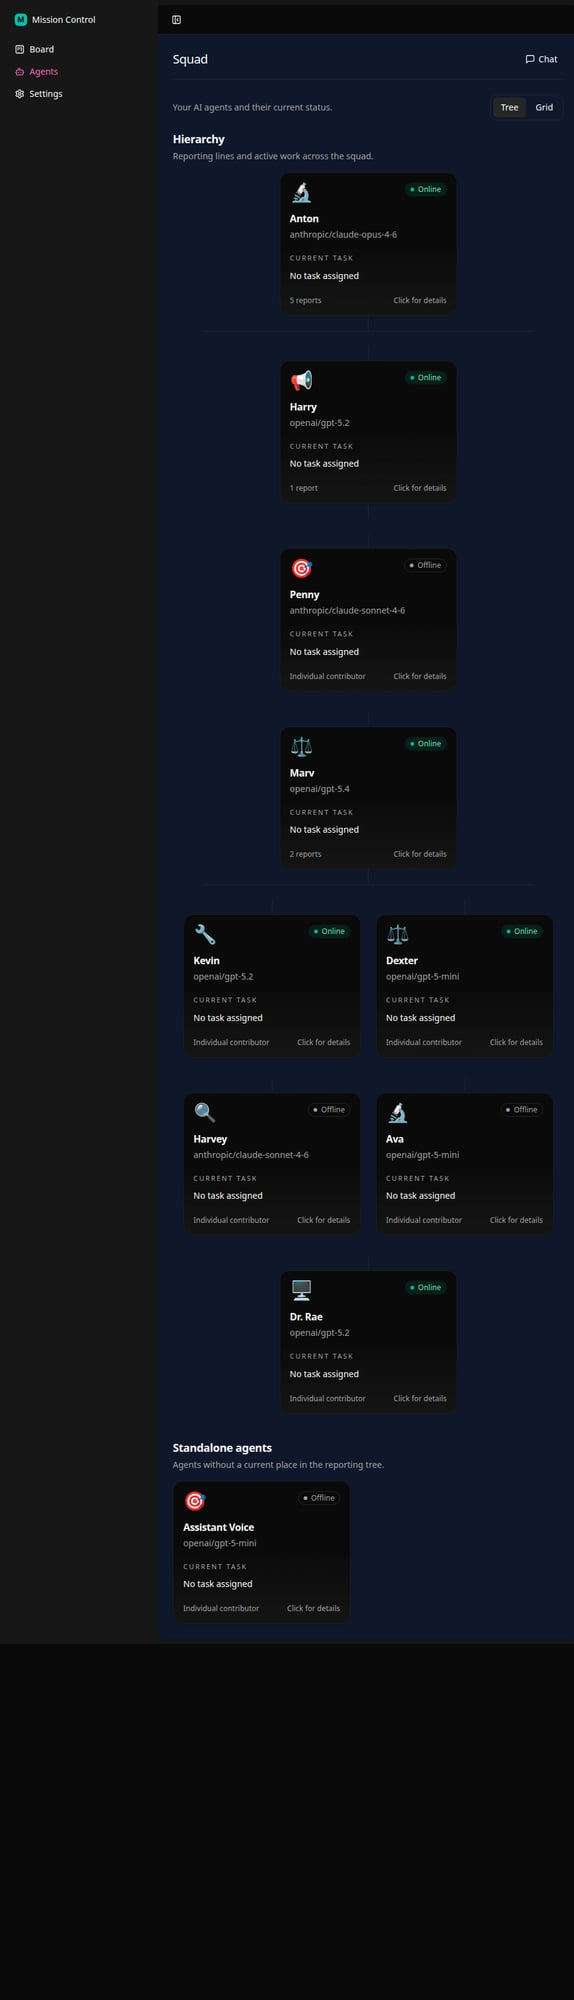
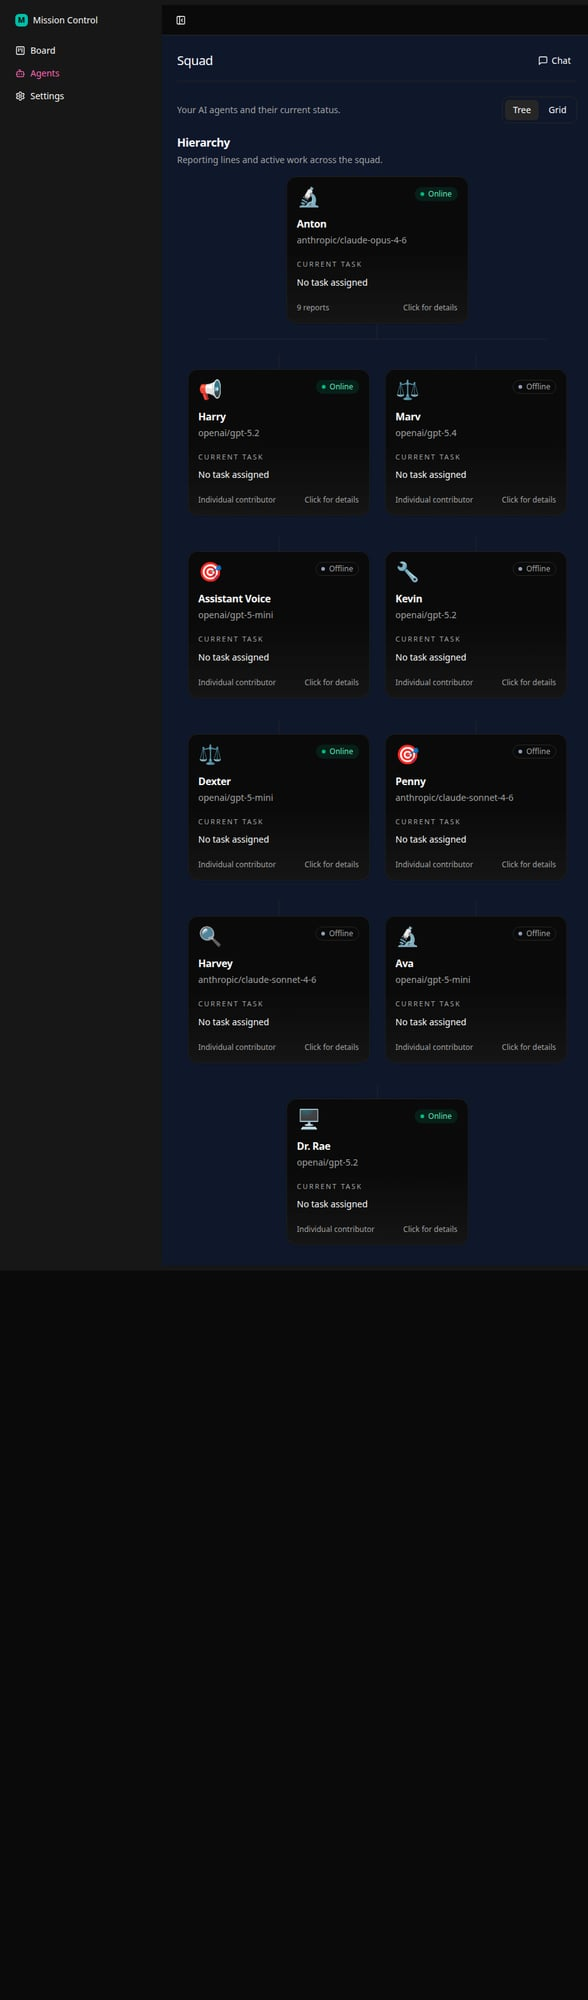
Fix agent hierarchy: flat structure under root agent (default=true)
The allowAgents config is a spawn-permission model, not a reporting hierarchy.
All agents report directly to the root agent (Anton). The delegatesTo data
is preserved as metadata on each card but doesn't affect the tree layout.

diff --git a/server/routes/agents.ts b/server/routes/agents.ts
@@ -421,105 +421,28 @@ type AgentHierarchy = {
 };
 
 function buildAgentHierarchy(agents: AgentConfig[]): AgentHierarchy {
+  // Simple hierarchy: the default agent is root, everyone else is a direct child.
+  // The allowAgents (delegatesTo) data is a spawn-permission model, NOT a reporting hierarchy.
+  // An agent that can spawn another agent doesn't mean that agent reports to them.
   const childrenByAgent = new Map<string, string[]>();
   const parentByAgent = new Map<string, string | null>();
-  const delegatesByAgent = new Map<string, string[]>();
-  const directDelegatorsByAgent = new Map<string, string[]>();
-  const agentOrder = new Map<string, number>();
-  const rootId = agents.find((agent) => agent.isDefault)?.id ?? null;
+  
+  const rootId = agents.find((agent) => agent.isDefault)?.id ?? agents[0]?.id ?? null;
+  const rootChildren: string[] = [];
 
-  for (const [index, agent] of agents.entries()) {
-    agentOrder.set(agent.id, index);
+  for (const agent of agents) {
     childrenByAgent.set(agent.id, []);
-    parentByAgent.set(agent.id, null);
-    delegatesByAgent.set(agent.id, agent.delegatesTo);
-  }
-
-  const reachabilityCache = new Map<string, boolean>();
-
-  function canReach(startId: string, targetId: string, trail = new Set<string>()) {
-    if (startId === targetId) {
-      return false;
-    }
-
-    const cacheKey = `${startId}->${targetId}`;
-    const cachedValue = reachabilityCache.get(cacheKey);
-
-    if (cachedValue !== undefined) {
-      return cachedValue;
-    }
-
-    if (trail.has(startId)) {
-      reachabilityCache.set(cacheKey, false);
-      return false;
-    }
-
-    const nextTrail = new Set(trail);
-    nextTrail.add(startId);
-
-    for (const nextId of delegatesByAgent.get(startId) ?? []) {
-      if (nextId === targetId || canReach(nextId, targetId, nextTrail)) {
-        reachabilityCache.set(cacheKey, true);
-        return true;
-      }
-    }
-
-    reachabilityCache.set(cacheKey, false);
-    return false;
-  }
-
-  for (const agent of agents) {
-    for (const delegateId of agent.delegatesTo) {
-      const delegators = directDelegatorsByAgent.get(delegateId) ?? [];
-      delegators.push(agent.id);
-      directDelegatorsByAgent.set(delegateId, delegators);
-    }
-  }
-
-  for (const agent of agents) {
+    
     if (agent.id === rootId) {
-      continue;
-    }
-
-    const directDelegators = directDelegatorsByAgent.get(agent.id) ?? [];
-
-    if (directDelegators.length === 0) {
-      continue;
-    }
-
-    const closestDelegators = directDelegators.filter(
-      (candidateId) =>
-        !directDelegators.some(
-          (otherId) => otherId !== candidateId && canReach(candidateId, otherId),
-        ),
-    );
-
-    const parentId = [...closestDelegators].sort((leftId, rightId) => {
-      const leftIsRoot = leftId === rootId;
-      const rightIsRoot = rightId === rootId;
-
-      if (leftIsRoot !== rightIsRoot) {
-        return leftIsRoot ? 1 : -1;
-      }
-
-      return (agentOrder.get(leftId) ?? Number.MAX_SAFE_INTEGER) - (agentOrder.get(rightId) ?? Number.MAX_SAFE_INTEGER);
-    })[0] ?? null;
-
-    if (parentId) {
-      parentByAgent.set(agent.id, parentId);
+      parentByAgent.set(agent.id, null);
+    } else {
+      parentByAgent.set(agent.id, rootId);
+      rootChildren.push(agent.id);
     }
   }
 
-  for (const agent of agents) {
-    const parentId = parentByAgent.get(agent.id);
-
-    if (!parentId) {
-      continue;
-    }
-
-    const children = childrenByAgent.get(parentId) ?? [];
-    children.push(agent.id);
-    childrenByAgent.set(parentId, children);
+  if (rootId) {
+    childrenByAgent.set(rootId, rootChildren);
   }
 
   return {

diff --git a/tests/use-tasks.test.tsx b/tests/use-tasks.test.tsx
@@ -5,6 +5,7 @@ import {
   TasksStore,
   createTasksApi,
   fetchTasks,
+  groupTasksByParent,
   type TasksApi,
 } from "../src/hooks/useTasks.ts";
 import type { Task, TaskRecord } from "../src/lib/types.ts";
@@ -190,7 +191,10 @@ test("tasks API helpers call the expected endpoints and fetch task details", asy
   const api = createTasksApi();
 
   const tasks = await fetchTasks(api);
-  const createdTask = await api.createTask({ title: "Write docs" });
+  const createdTask = await api.createTask({
+    parent_task_id: "plan-1",
+    title: "Write docs",
+  });
   const updatedTask = await api.updateTask("task-1", { status: "review" });
   const comment = await api.addComment("task-1", {
     author: "agent-1",
@@ -223,6 +227,61 @@ test("tasks API helpers call the expected endpoints and fetch task details", asy
       ["DELETE", "http://localhost:4173/api/tasks/task-1"],
     ],
   );
+  assert.equal(
+    calls[2]?.init?.body,
+    JSON.stringify({
+      parent_task_id: "plan-1",
+      title: "Write docs",
+    }),
+  );
+});
+
+test("groupTasksByParent collapses child tasks under their parent for board rendering", () => {
+  const childTask = createTask({
+    comments: [
+      {
+        author: "agent-1",
+        content: "Working on it.",
+        created_at: 2,
+        id: "comment-1",
+        task_id: "child-1",
+        type: "comment",
+      },
+    ],
+    id: "child-1",
+    parent: createTaskRecord({
+      child_count: 1,
+      id: "plan-1",
+      title: "Launch plan",
+    }),
+    parent_task_id: "plan-1",
+    title: "Ship API",
+  });
+  const parentTask = createTask({
+    child_count: 1,
+    children: [
+      createTaskRecord({
+        id: "child-1",
+        parent_task_id: "plan-1",
+        title: "Ship API",
+      }),
+    ],
+    id: "plan-1",
+    title: "Launch plan",
+  });
+  const standaloneTask = createTask({
+    id: "task-standalone",
+    title: "Review copy",
+  });
+
+  const boardTasks = groupTasksByParent([childTask, parentTask, standaloneTask]);
+
+  assert.deepEqual(
+    boardTasks.map((task) => task.id),
+    ["plan-1", "task-standalone"],
+  );
+  assert.equal(boardTasks[0]?.children?.[0]?.id, "child-1");
+  assert.equal((boardTasks[0]?.children?.[0] as Task | undefined)?.comments[0]?.id, "comment-1");
 });
 
 test("TasksStore toggles subtasks and refetches when task SSE events arrive", async () => {
@@ -297,6 +356,7 @@ test("TasksStore toggles subtasks and refetches when task SSE events arrive", as
 
   await store.start();
   assert.equal(store.getSnapshot().tasks[0]?.subtasks[0]?.done, false);
+  assert.equal(store.getSnapshot().boardTasks[0]?.id, "task-1");
   assert.equal(store.getSnapshot().status, "ready");
 
   const updatedSubtask = await store.toggleSubtask("task-1", "subtask-1");

diff --git a/src/pages/board.tsx b/src/pages/board.tsx
@@ -21,7 +21,7 @@ import {
 } from "@/components/layout/page-header";
 import { Button } from "@/components/ui/button";
 import { useTasks } from "@/hooks/useTasks";
-import type { Task, TaskPriority, TaskStatus } from "@/lib/types";
+import type { Task, TaskPriority, TaskRecord, TaskStatus } from "@/lib/types";
 import { useDrawer } from "@/providers/drawer-provider";
 
 const BOARD_COLUMN_CONFIG: Array<{
@@ -48,9 +48,23 @@ export function mapTaskPriority(priority: TaskPriority): KanbanTask["priority"] 
   }
 }
 
+function mapTaskRecordToKanbanTask(task: TaskRecord): KanbanTask {
+  return {
+    assignee: task.assignee_agent_id ?? undefined,
+    description: task.description ?? undefined,
+    id: task.id,
+    parentTaskId: task.parent_task_id ?? undefined,
+    priority: mapTaskPriority(task.priority),
+    status: task.status,
+    subtasks: [],
+    title: task.title,
+  };
+}
+
 export function mapTaskToKanbanTask(task: Task): KanbanTask {
   return {
     assignee: task.assignee_agent_id ?? undefined,
+    childTasks: task.children?.map(mapTaskRecordToKanbanTask),
     description: task.description ?? undefined,
     id: task.id,
     parentTaskId: task.parent_task_id ?? undefined,
@@ -91,10 +105,10 @@ export function buildBoardColumns(tasks: Task[]): KanbanColumnDef[] {
 }
 
 const BoardPage = () => {
-  const { error, isLoading, tasks } = useTasks();
+  const { boardTasks, error, isLoading, tasks } = useTasks();
   const { openDrawer } = useDrawer();
 
-  const columns = React.useMemo(() => buildBoardColumns(tasks), [tasks]);
+  const columns = React.useMemo(() => buildBoardColumns(boardTasks), [boardTasks]);
   const planOptions = React.useMemo(() => getNewTaskDialogPlanOptions(tasks), [tasks]);
 
   const handleOpenFeed = React.useCallback(() => {
@@ -133,9 +147,9 @@ const BoardPage = () => {
             <p className="text-muted-foreground">
               {isLoading && tasks.length === 0
                 ? "Loading tasks..."
-                : tasks.length === 0
+                : boardTasks.length === 0
                   ? "No tasks yet. Create one to populate the board."
-                  : `${tasks.length} task${tasks.length === 1 ? "" : "s"} on the board.`}
+                  : `${boardTasks.length} task${boardTasks.length === 1 ? "" : "s"} on the board.`}
             </p>
           </div>
 

diff --git a/src/hooks/useTasks.ts b/src/hooks/useTasks.ts
@@ -29,6 +29,7 @@ type CreateTaskInput = {
   created_by?: string | null;
   description?: string | null;
   metadata?: unknown | null;
+  parent_task_id?: string | null;
   priority?: TaskPriority;
   status?: TaskStatus;
   title: string;
@@ -76,6 +77,7 @@ type TaskEventSource = {
 };
 
 type TasksSnapshot = {
+  boardTasks: Task[];
   error: Error | null;
   isLoading: boolean;
   status: TasksStatus;
@@ -194,6 +196,34 @@ export async function fetchTasks(api: TasksApi = createTasksApi()) {
   return Promise.all(taskRecords.map((task) => api.getTask(task.id)));
 }
 
+export function groupTasksByParent(tasks: Task[]) {
+  const tasksById = new Map(tasks.map((task) => [task.id, task] as const));
+
+  return tasks.flatMap((task) => {
+    if (task.parent_task_id && tasksById.has(task.parent_task_id)) {
+      return [];
+    }
+
+    const childTasks =
+      task.children?.flatMap((child) => {
+        const detailedChild = tasksById.get(child.id);
+        return detailedChild ? [detailedChild] : [];
+      }) ??
+      tasks.filter((candidate) => candidate.parent_task_id === task.id);
+
+    if (childTasks.length === 0) {
+      return [task];
+    }
+
+    return [
+      {
+        ...task,
+        children: childTasks,
+      },
+    ];
+  });
+}
+
 export class TasksStore {
   private readonly api: TasksApi;
   private readonly listeners = new Set<() => void>();
@@ -202,6 +232,7 @@ export class TasksStore {
   private requestId = 0;
   private started = false;
   private state: TasksSnapshot = {
+    boardTasks: [],
     error: null,
     isLoading: false,
     status: "idle",
@@ -342,6 +373,7 @@ export class TasksStore {
       }
 
       this.setState({
+        boardTasks: groupTasksByParent(tasks),
         error: null,
         isLoading: false,
         status: "ready",

diff --git a/tests/board-page.test.tsx b/tests/board-page.test.tsx
@@ -58,6 +58,15 @@ test("board helpers normalize task priorities and group tasks by status", () => 
   });
   const reviewTask = createTask({
     assignee_agent_id: "agent:marv",
+    children: [
+      createTask({
+        assignee_agent_id: "agent:solo",
+        id: "child-task-1",
+        parent_task_id: "task-review",
+        status: "assigned",
+        title: "Coordinate owners",
+      }),
+    ],
     id: "task-review",
     parent_task_id: "plan-launch",
     priority: "urgent",
@@ -83,6 +92,8 @@ test("board helpers normalize task priorities and group tasks by status", () => 
 
   const kanbanTask = mapTaskToKanbanTask(reviewTask);
   assert.equal(kanbanTask.assignee, "agent:marv");
+  assert.equal(kanbanTask.childTasks?.[0]?.id, "child-task-1");
+  assert.equal(kanbanTask.childTasks?.[0]?.subtasks.length, 0);
   assert.equal(kanbanTask.parentTaskId, "plan-launch");
   assert.equal(kanbanTask.priority, "high");
   assert.equal(kanbanTask.subtasks[0]?.done, true);
